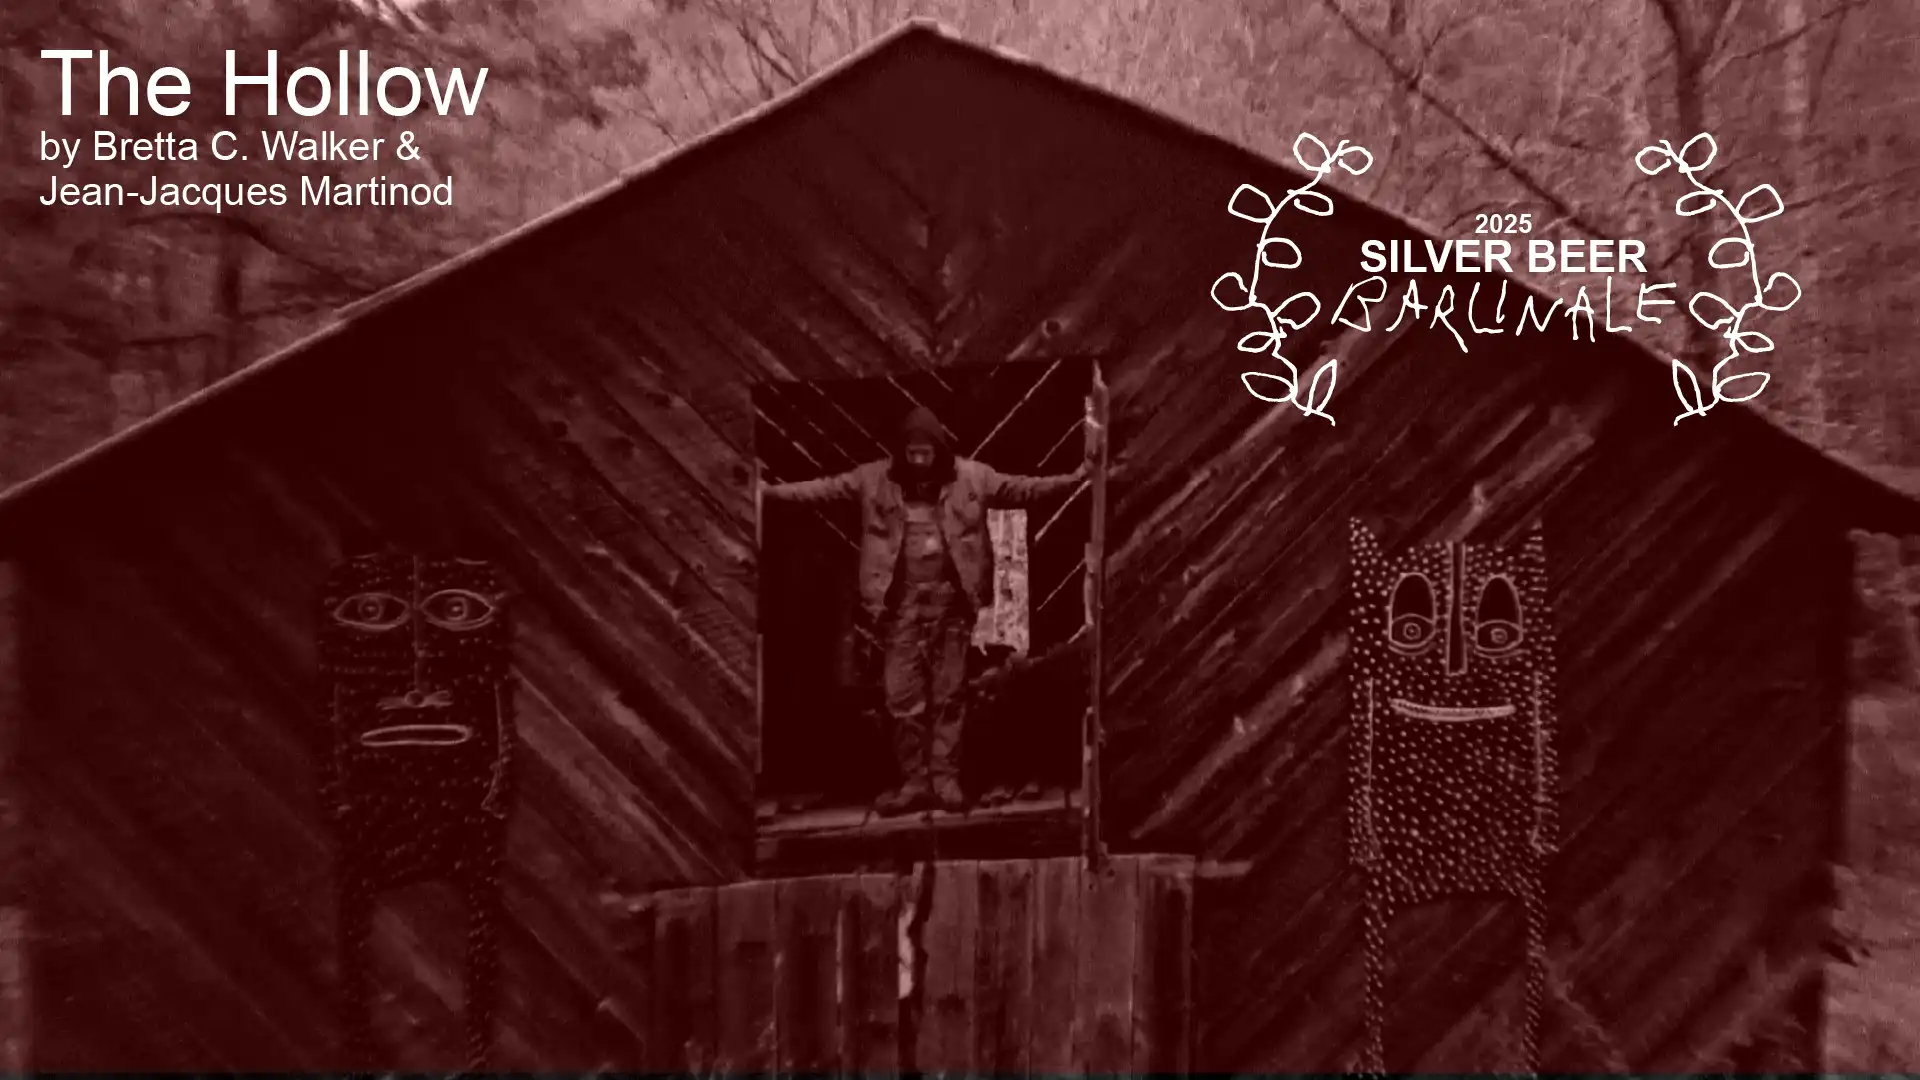
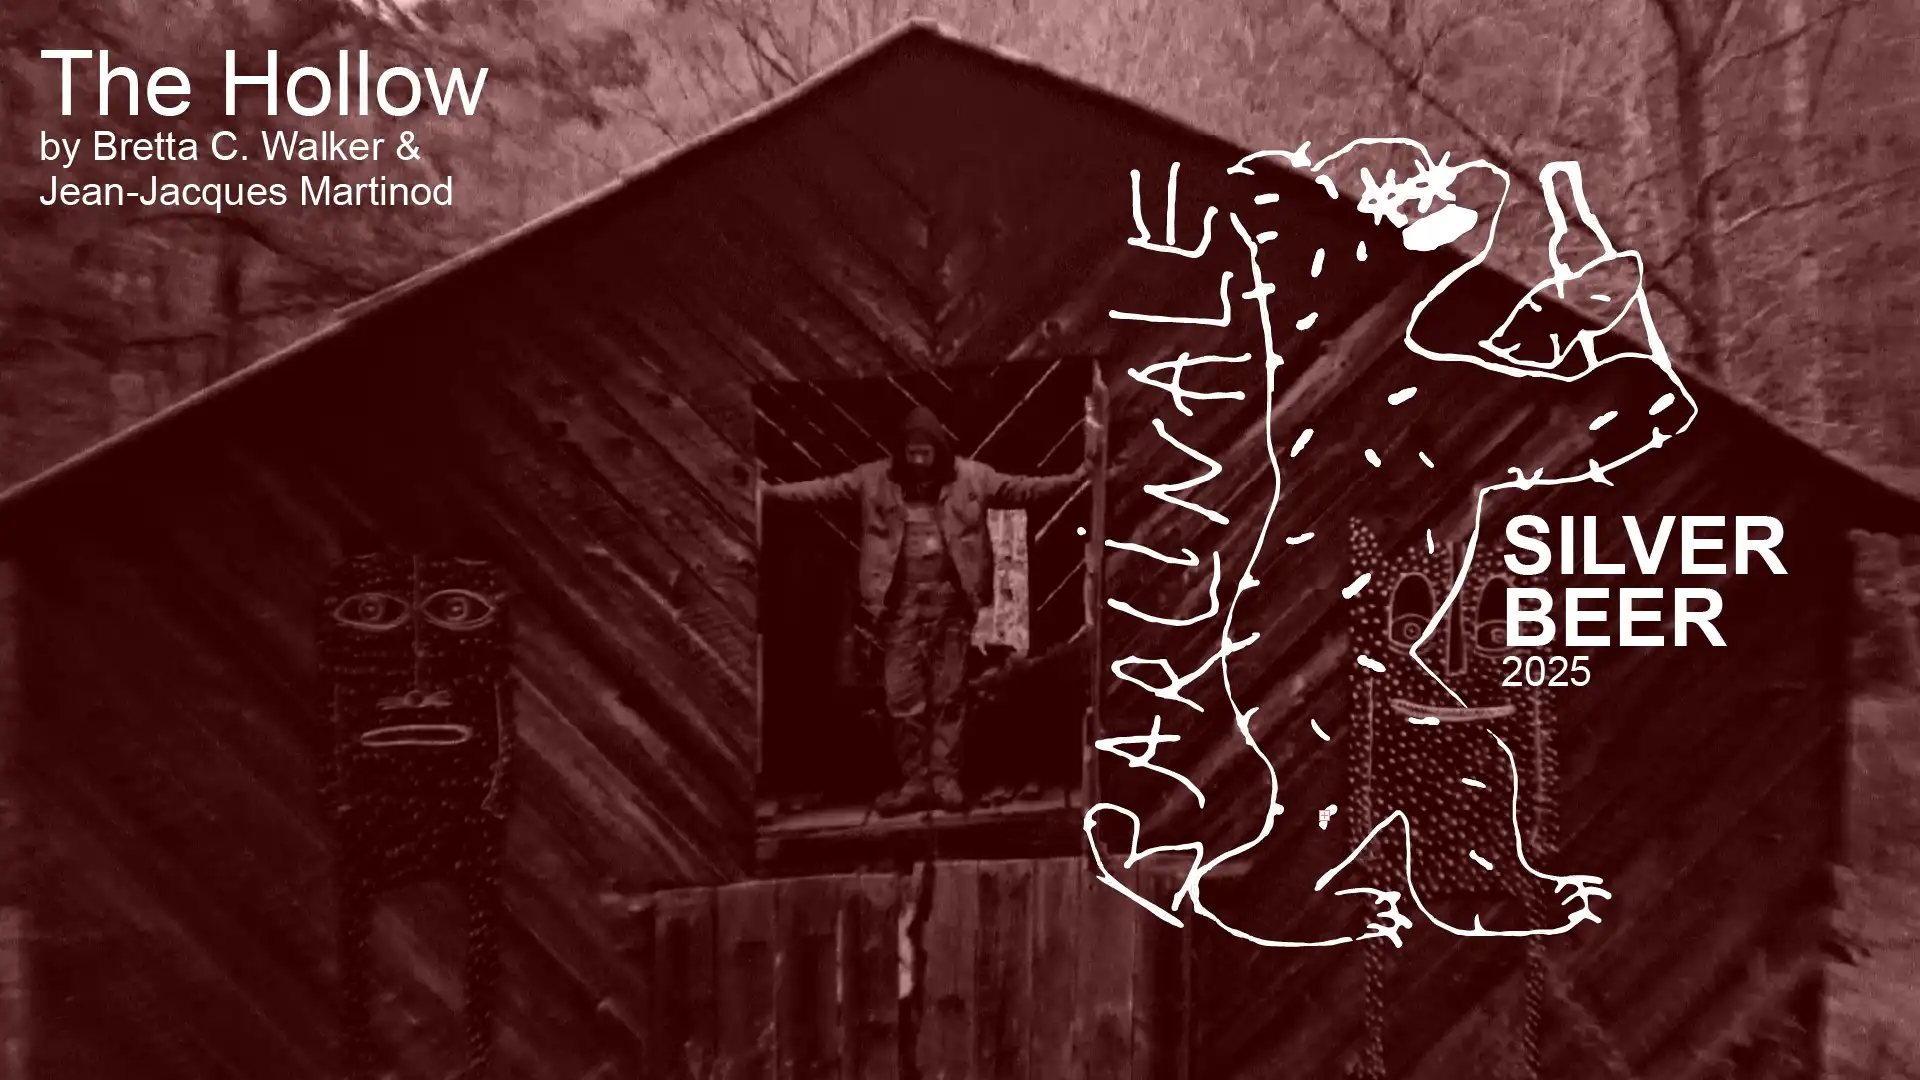
Add files via upload

diff --git a/2025.html b/2025.html
@@ -49,7 +49,7 @@
             <img src="images/GoldenBeer2025.webp" alt="golden beer winner" loading="lazy"/>
             <p class="film-title">Abajo y a la Izquierda <i>Below and to the Left</i></p>
             <p class="filmmaker">by Martín Baus</p>
-            <p class="film-info">"The movie shocked us so much that we forgot the title." Accepted by Martín's cousin.</p>
+            <p class="film-info">"The movie shocked us so much that we forgot the title." Accepted by Andrés, Martín's cousin and winner of the audiance choice award. </p>
            
         </div>
 
